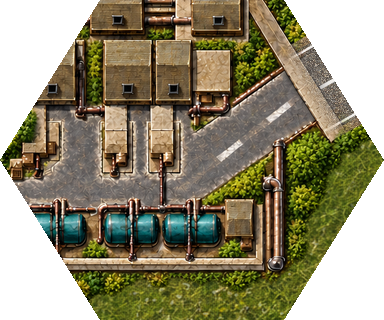
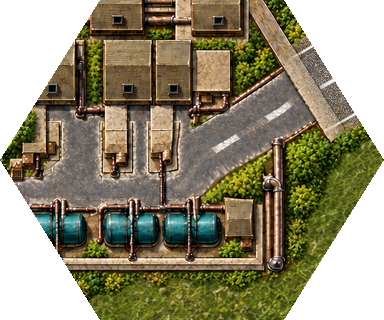
fix(terrain): factory entry street runs along the road's direction
The painted east street met the road at the gate but ran a few degrees
off it: 29-37 world px inside the NE port its mirror axis lay 1.5 world
px off the road's extended axis in both seasons.
TestCompoundEntryStreetMeetsTheRoad now also checks the deepest 8 world
px before each entry street's first junction, bend or end.

factory-winter-v4 and factory-summer-v2 straighten the street with a Go
warp across the road axis (pixels outside the street band unchanged);
compound-factory-v4 and compound-factory-summer-v2 cut them, and the
E cells are re-cut (-0.25 world px off at 29-37).

Claude-Session: https://claude.ai/code/session_01GYYpxSaZdbX1BuoopUdKHR

Changed region(s): [[0.4062, 0.25, 0.7812, 0.6875]]

diff --git a/tools/art-review/compound_entry_offset_test.go b/tools/art-review/compound_entry_offset_test.go
@@ -9,9 +9,11 @@ import (
 )
 
 // compoundEntryOffset is how far (world px, across the entry port) the
-// painted street of scene s runs from the road tile it continues, just inside
-// the entry blend: the street's mirror axis in the artwork minus the road's.
-func compoundEntryOffset(in compoundInputs, s compoundSceneInput) (float64, error) {
+// painted street of scene s runs from the road tile it continues (extended
+// straight through the cell) between depths near and far inside the port: the
+// street's mirror axis in the artwork minus the road's, searched within
+// ±shift world px over half world px either side.
+func compoundEntryOffset(in compoundInputs, s compoundSceneInput, near, far float64, half, shift int) (float64, error) {
 	l, err := compoundLayoutFor(s.ID)
 	if err != nil {
 		return 0, err
@@ -35,7 +37,7 @@ func compoundEntryOffset(in compoundInputs, s compoundSceneInput) (float64, erro
 	inward := g.Neighbors[port-1].mul(-1 / g.Neighbors[port-1].length())
 	across := connectionPoint{-inward[1], inward[0]}
 	const reach, per = 24, 4 // world px either side, samples per world px
-	// profile is the median colour, over depths blend..blend+8, at each
+	// profile is the median colour, over depths near..far, at each
 	// sample across the port of im, whose pixel (0,0) lies at local world
 	// point o. The median ignores what crosses the street there (the depot's
 	// barrier, the factory's gantry).
@@ -43,7 +45,7 @@ func compoundEntryOffset(in compoundInputs, s compoundSceneInput) (float64, erro
 		var p [][3]float64
 		for i := -reach * per; i <= reach*per; i++ {
 			var ch [3][]float64
-			for d := float64(compoundEntryBlend); d <= compoundEntryBlend+8; d += .5 {
+			for d := near; d <= far; d += .5 {
 				q := at.add(inward.mul(d)).add(across.mul(float64(i) / per))
 				x, y := int(math.Floor((q[0]-o[0])*4)), int(math.Floor((q[1]-o[1])*4))
 				if !(image.Point{x, y}).In(im.Bounds()) {
@@ -64,9 +66,8 @@ func compoundEntryOffset(in compoundInputs, s compoundSceneInput) (float64, erro
 	want := profile(raw, connectionPoint{-4, -4})
 	got := profile(art, connectionPoint{-origin[0], -origin[1]})
 	// axis is the line across the port about which p is most nearly mirror
-	// symmetric over the street and its verges (half width world px), within
-	// ±shift world px of the port's centre line.
-	const half, shift = 14, 6
+	// symmetric over half world px either side, within ±shift world px of the
+	// port's centre line.
 	axis := func(p [][3]float64) float64 {
 		best, at := math.Inf(1), 0.
 		for c := -shift * per; c <= shift*per; c++ {
@@ -84,12 +85,29 @@ func compoundEntryOffset(in compoundInputs, s compoundSceneInput) (float64, erro
 	return axis(got) - axis(want), nil
 }
 
+// compoundEntryDeepBands is, per layout, the deepest 8 world px of the entry
+// street before its first junction, bend or end (depths far-8..far inside the
+// port), and the half width of its mirror window: the street with its verges,
+// or only the street and its kerbs where the verges differ (snow beside the
+// factory's tank row, a pipe on its north side).
+var compoundEntryDeepBands = map[string]struct {
+	far  float64
+	half int
+}{
+	"hq":      {58, 14}, // the gatehouse roof
+	"depot":   {76, 14}, // the central building
+	"ruin":    {45, 14}, // the crater that breaks the road
+	"factory": {37, 8},  // the first yard lane on the north side
+}
+
 // TestCompoundEntryStreetMeetsTheRoad: in every installed compound scene with
 // an entry road, the painted street runs within 1 world px of the road tile it
-// continues, so the gate blend joins two aligned streets. It pins the
-// factory's manifest shift: without it the street is 2 world px off.
+// continues, so the gate blend joins two aligned streets: just inside the blend
+// (which pins the factory's manifest shift: without it the street is 2 world
+// px off) and deep inside, where a street a few degrees off the road's
+// direction has drifted apart (the factory's v3 street: 1.5 world px, straightened in v4).
 func TestCompoundEntryStreetMeetsTheRoad(t *testing.T) {
-	for _, name := range []string{"compound-hq-v3.json", "compound-depot-v3.json", "compound-factory-v3.json", "compound-factory-summer-v1.json", "compound-ruin-v2.json"} {
+	for _, name := range []string{"compound-hq-v3.json", "compound-depot-v3.json", "compound-factory-v4.json", "compound-factory-summer-v2.json", "compound-ruin-v2.json"} {
 		in, err := loadCompoundInputs(filepath.Join("..", "..", "art", "pipeline", name))
 		if err != nil {
 			t.Fatal(err)
@@ -99,12 +117,29 @@ func TestCompoundEntryStreetMeetsTheRoad(t *testing.T) {
 				continue
 			}
 			t.Run(s.ID, func(t *testing.T) {
-				off, err := compoundEntryOffset(in, s)
+				l, err := compoundLayoutFor(s.ID)
+				if err != nil {
+					t.Fatal(err)
+				}
+				deep, ok := compoundEntryDeepBands[l.Layout]
+				if !ok {
+					t.Fatalf("%s: no deep band for layout %s", name, l.Layout)
+				}
+				off, err := compoundEntryOffset(in, s, compoundEntryBlend, compoundEntryBlend+8, 14, 6)
 				if err != nil {
 					t.Fatal(err)
 				}
 				if math.Abs(off) > 1 {
-					t.Errorf("%s: street %+.2f world px off the road", name, off)
+					t.Errorf("%s: street %+.2f world px off the road at the gate", name, off)
+				}
+				// Within ±3 world px: a wider search can mirror one rut onto the other.
+				off, err = compoundEntryOffset(in, s, deep.far-8, deep.far, deep.half, 3)
+				if err != nil {
+					t.Fatal(err)
+				}
+				t.Logf("%s: depths %g-%g: %+.2f world px", name, deep.far-8, deep.far, off)
+				if math.Abs(off) > 1 {
+					t.Errorf("%s: street %+.2f world px off the road's extended axis at depths %g-%g", name, off, deep.far-8, deep.far)
 				}
 			})
 		}

diff --git a/tools/art-review/compound_generate_test.go b/tools/art-review/compound_generate_test.go
@@ -33,7 +33,7 @@ func TestGenerateCompoundTiles(t *testing.T) {
 		at[campaignExportKey(e.ID, e.Density)] = i
 	}
 	replaced := 0
-	for _, manifest := range []string{"compound-hq-v3.json", "compound-depot-v3.json", "compound-factory-v3.json", "compound-factory-summer-v1.json"} {
+	for _, manifest := range []string{"compound-hq-v3.json", "compound-depot-v3.json", "compound-factory-v4.json", "compound-factory-summer-v2.json"} {
 		in, err := loadCompoundInputs(filepath.Join(root, "art/pipeline", manifest))
 		if err != nil {
 			t.Fatal(err)

diff --git a/art/terrain/factory/prompt.md b/art/terrain/factory/prompt.md
@@ -4,7 +4,7 @@ title: Factory
 kind: terrain
 status: candidate
 runtime_ids: factoryE, factoryN, factoryS, factoryW, factoryE_w, factoryN_w, factoryS_w, factoryW_w
-masters: factory-summer-v1.png, factory-winter-v3.png, factory-winter-v2.png, factory-winter-v1.png
+masters: factory-summer-v2.png, factory-winter-v4.png, factory-summer-v1.png, factory-winter-v3.png, factory-winter-v2.png, factory-winter-v1.png
 ---
 
 ## Look
@@ -37,7 +37,8 @@ Sliced into four hex crops with shared placements; the east street meets the reg
 its port.
 
 ## Post
-Selected winter source is `factory-winter-v3.png` (1536x1024, true alpha): `factory-winter-v2.png` with
+Selected sources are `factory-winter-v4.png` and `factory-summer-v2.png` (1536x1024, true alpha), whose
+east entry street is straightened in Go (below). `factory-winter-v3.png` is `factory-winter-v2.png` with
 every street (the east entry street, the cross street and the north-south street) replaced by packed snow
 with wheel ruts and no lane paint, so the entry continues the winter road tile and the yard streets match
 it. `factory-winter-v2.png` is native built-in imagegen: the edit prompt preserves the prior winter
@@ -46,10 +47,10 @@ masonry, piping, turquoise tanks, basin and patchy snow with the material precis
 `ground-crater-summer-v1.png`. Open ground stays transparent for the seasonal meadow. Summer runtime IDs
 use the same four-cell diamond, east road port and reference framing.
 
-`art-review -compound art/pipeline/compound-factory-v3.json` places the scene on winter meadow and slices
-the four winter cells. `compound-factory-summer-v1.json` exports the four matching summer cells. The scene
+`art-review -compound art/pipeline/compound-factory-v4.json` places the scene on winter meadow and slices
+the four winter cells. `compound-factory-summer-v2.json` exports the four matching summer cells. The scene
 fills the 238x160 box and crops the excess. Both manifests enlarge the scene by `zoom` 1.035 and `shift` it (2.5, 0.7) world px, which puts the
-painted east street within 1 world px of the road through the E cell's NE port, 10–18 world px inside it
+painted east street within 1 world px of the road through the E cell's NE port, 10–18 world px inside it and, with the v4/v2 street, 29–37 world px inside it
 (`TestCompoundEntryStreetMeetsTheRoad`); the outer buildings stay inside the diamond. The first
 10 world px inside the port blend into the season's road tile (`entry_road`). Exports are fixed Lanczos3 at 2x (192x160) and 4x (384x320) with complementary half-open hex ownership; promote into `assets/terrain/<family>/` and re-index.
 
@@ -76,6 +77,24 @@ No white centre lines, no dashes, no lane paint, no asphalt black, no curbs. Do 
 
 Image 1 is the installed winter factory: edit only its street surfaces, preserve every outline, position and the transparent area. Image 2 is the winter road material: take its packed-snow grain, patches and grey value for the street surface; do not copy its framing. Image 3 is the installed winter road tile at 4x (road 88 px wide on a 384 px hex, snow verges outside): take its ruts, their spacing relative to the road width and the overall value; do not copy its verges, its size or its hex shape.
 ```
+
+### Straight entry street (2026-10-24)
+
+`factory-winter-v4.png` and `factory-summer-v2.png` are `factory-winter-v3.png` and
+`factory-summer-v1.png` with the east entry street turned onto the road's direction. The painted street
+met the road at the gate but ran a few degrees off it: 29–37 world px inside the NE port its mirror axis
+lay 1.5 world px south of the road's extended axis in both seasons (summer dashes 2.3, winter ruts 1.6,
+south kerb 1.3 world px). No imagegen: a Go warp (scratch tool, not kept) moves pixels across the road
+axis only, by k·(d−15) world px at depth d (k 0.08 winter, 0.125 summer) up to 37 world px, easing back
+to zero by smoothstep at 50 (the yard junction). Across the street the shift is piecewise linear: zero
+15 world px south of the axis, full in the street from −5 to +4, a fraction at the south kerb (−8.5:
+0.69 winter, 0.44 summer) and the north edge (+7: 0.41 / 0.27), zero at +10, so the kerbs, the pipe and
+the buildings beside the street stay where they are. Samples are Catmull-Rom on premultiplied RGBA in
+the master (scene transform scale 0.16171875, offset (−2.7, −2.1) world px). Every pixel outside that
+band (lateral −15..+10, depth 15..50 world px) is unchanged; 32042 (winter) and 32195 (summer) of
+1572864 master pixels differ, a mean absolute RGBA difference to the previous master of 0.39 and 0.42
+over the whole canvas. Afterwards the street lies −0.25 world px off the road's axis at 29–37 world px
+and stays within 1 world px at 10–18; only the E cells change.
 
 ## Avoid
 - visible tiling or repeated rounded "pillow" patterns
